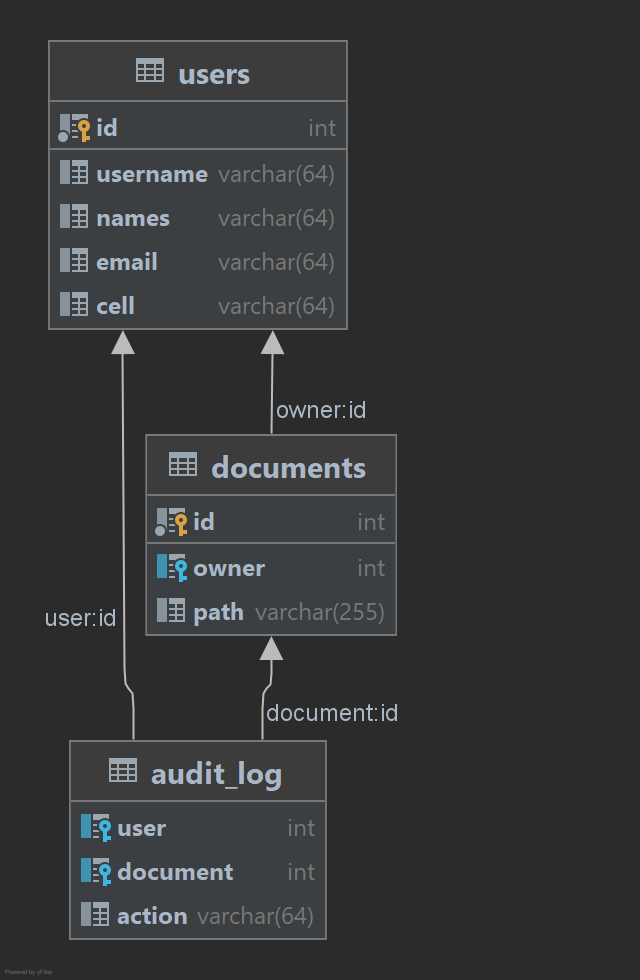
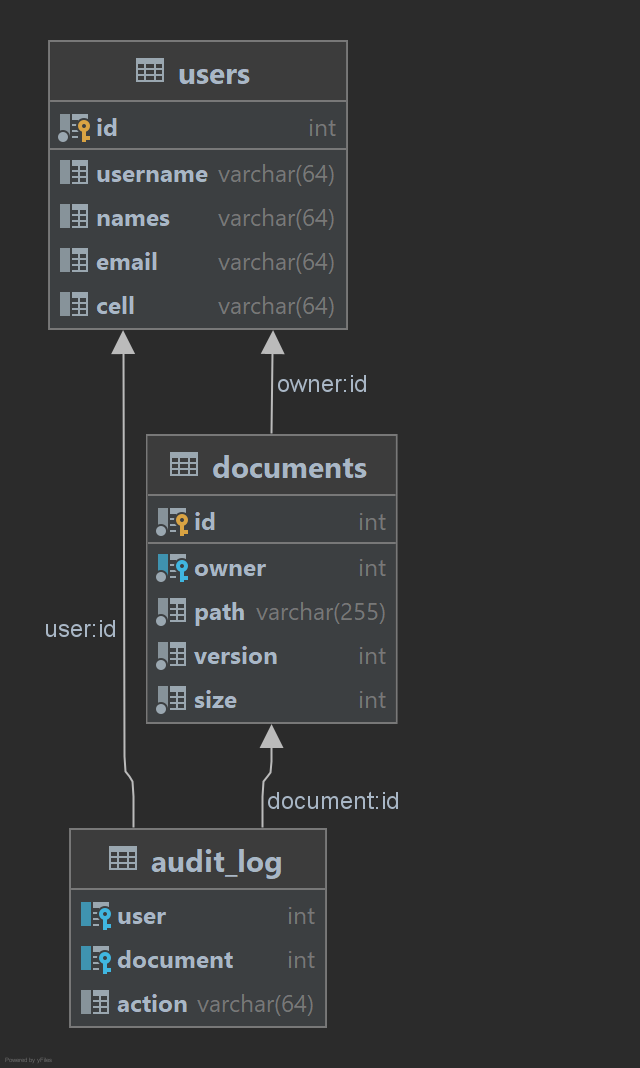
Update documents

Changed region(s): [[0.0625, 0.0306, 0.625, 0.9796], [0.0625, 0.5816, 0.1875, 0.6429]]

diff --git a/pkg/documents/documents.go b/pkg/documents/documents.go
@@ -3,48 +3,142 @@ package documents
 import (
 	"context"
 	"database/sql"
+	"errors"
 	"fmt"
 	"io"
 	"os"
+	"path"
 	"strconv"
 )
 
 func Upload(ctx context.Context, dbc *sql.DB, userID int64, reader io.Reader) (int, error) {
+	// TODO: Ensure only new files created simultaneously in tempdir
 	documentID, err := new(ctx, dbc, userID)
 	if err != nil {
 		return 0, err
 	}
 
-	path := "files/"+strconv.FormatInt(documentID, 10)
-	file, err := os.Create(path)
+	tempPath, writtenBytes, err := createTempFile(documentID, reader)
 	if err != nil {
 		return 0, err
 	}
 
-	writtenBytes, err := io.Copy(file, reader)
+	err = replace(ctx, dbc, tempPath, writtenBytes, documentID)
 	if err != nil {
 		return 0, err
 	}
-
-	err = setAvailable(ctx, dbc, documentID, writtenBytes, path)
-	if err != nil {
-		return 0, err
-	}
-
 
 	return int(documentID), nil
 }
 
-func new(ctx context.Context, dbc *sql.DB, userID int64) (int64, error){
+func new(ctx context.Context, dbc *sql.DB, userID int64) (int64, error) {
 	res, err := dbc.ExecContext(ctx, "insert into `documents` (`owner`) values (?)", userID)
 	if err != nil {
 		return 0, err
 	}
+
 	return res.LastInsertId()
 }
 
-func setAvailable(ctx context.Context, dbc *sql.DB, documentID int64, writtenBytes int64, path string) (error){
-	res, err := dbc.ExecContext(ctx, "update `documents` set `path`=?, `size`=? where `id`=?",path,writtenBytes, documentID)
+func Update(ctx context.Context, dbc *sql.DB, documentID int64, userID int64, reader io.Reader) error {
+	// TODO: Ensure only new files created simultaneously
+	doc, err := get(ctx, dbc, documentID)
+	if err != nil {
+		return err
+	}
+
+	if doc.version == 0 {
+		_, err = Upload(ctx, dbc, userID, reader)
+		return err
+	}
+
+	tempPath, writtenBytes, err := createTempFile(documentID, reader)
+	if err != nil {
+		return err
+	}
+
+	return replace(ctx, dbc, tempPath, writtenBytes, documentID)
+}
+
+var tempDir = mustMakeNewTemp()
+
+func mustMakeNewTemp() string {
+	dir, err := os.MkdirTemp("", "")
+	if err != nil {
+		panic(err)
+	}
+	return dir
+}
+
+func createTempFile(documentID int64, reader io.Reader) (string, int64, error) {
+	tempPath := path.Join(tempDir, strconv.FormatInt(documentID, 10))
+	file, err := os.Create(tempPath)
+	if err != nil {
+		return "", 0, err
+	}
+
+	writtenBytes, err := io.Copy(file, reader)
+	if err != nil {
+		return "", 0, err
+	}
+	return tempPath, writtenBytes, file.Close()
+}
+
+type document struct {
+	id      int64
+	owner   int64
+	path    string
+	version int64
+	size    int64
+}
+
+type ContextQuery interface {
+	QueryContext(ctx context.Context, query string, args ...interface{}) (*sql.Rows, error)
+}
+
+func get(ctx context.Context, dbc ContextQuery, documentID int64) (document, error) {
+	rows, err := dbc.QueryContext(ctx, "select id, owner, path, version, size  from documents where `id` = ?", documentID)
+	if err != nil {
+		return document{}, err
+	}
+
+	if !rows.Next() {
+		return document{}, errors.New("document not found")
+	}
+
+	var doc document
+	err = rows.Scan(&doc.id, &doc.owner, &doc.path, &doc.version, &doc.size)
+	if err != nil {
+		return document{}, err
+	}
+
+	if rows.Next() {
+		return document{}, errors.New("multiple rows found")
+	}
+
+	return doc, err
+}
+
+// Replace the existing file with the updated file in a thread safe manner.
+func replace(ctx context.Context, dbc *sql.DB, oldPath string, size int64, documentID int64) error {
+	tx, err := dbc.Begin()
+	if err != nil {
+		return err
+	}
+
+	doc, err := get(ctx, tx, documentID)
+	if err != nil {
+		return err
+	}
+
+	newPath := "files/" + strconv.FormatInt(documentID, 10) + "_v" + strconv.FormatInt(doc.version+1, 10)
+	err = os.Rename(oldPath, newPath)
+	if err != nil {
+		return err
+	}
+
+	res, err := dbc.ExecContext(ctx, "update `documents` set `path`=?, `version`=?, `size`=? where `id`=?",
+		newPath, doc.version+1, size, documentID)
 	if err != nil {
 		return err
 	}

diff --git a/api/routes.go b/api/routes.go
@@ -8,11 +8,38 @@ import (
 	"io"
 	"log"
 	"net/http"
+	"regexp"
+	"strconv"
 )
+
+type middleware func(http.HandlerFunc)http.HandlerFunc
+
+var _ middleware = POST
+func POST(next http.HandlerFunc)http.HandlerFunc{
+	return func (resp http.ResponseWriter, req *http.Request){
+		if req.Method != "POST"{
+			resp.WriteHeader(http.StatusBadRequest)
+			return
+		}
+		next(resp, req)
+	}
+}
+
+var _ middleware = PATCH
+func PATCH(next http.HandlerFunc)http.HandlerFunc{
+	return func (resp http.ResponseWriter, req *http.Request){
+		if req.Method != "PATCH"{
+			resp.WriteHeader(http.StatusBadRequest)
+			return
+		}
+		next(resp, req)
+	}
+}
 
 func New(dbc *sql.DB) (http.Server){
 	mux := http.NewServeMux()
-	mux.HandleFunc("/upload", uploadDocument(dbc))
+	mux.HandleFunc("/upload", POST(uploadDocument(dbc)))
+	mux.HandleFunc("/update", PATCH(updateDocument(dbc)))
 	httpServer := http.Server{
 		Handler: mux,
 		Addr: "localhost:8084",
@@ -41,7 +68,7 @@ func uploadDocument(dbc *sql.DB) http.HandlerFunc {
 			}
 			documentID, err := documents.Upload(req.Context(), dbc, userID, mp)
 			if err != nil {
-				resp.WriteHeader(http.StatusBadRequest)
+				resp.WriteHeader(http.StatusInternalServerError)
 				resp.Write([]byte(err.Error()))
 				log.Default().Println(err)
 				return
@@ -56,7 +83,56 @@ func uploadDocument(dbc *sql.DB) http.HandlerFunc {
 			DocumentIDs: documentIDs,
 		})
 		if err != nil {
+			resp.WriteHeader(http.StatusInternalServerError)
+			resp.Write([]byte(err.Error()))
+			log.Default().Println(err)
+			return
+		}
+		resp.WriteHeader(http.StatusOK)
+	}
+}
+
+var updateDocumentURLRegex = regexp.MustCompile(`\/update/(:id)`)
+
+func updateDocument(dbc *sql.DB) http.HandlerFunc{
+	return func(resp http.ResponseWriter, req *http.Request) {
+
+		mp, err := req.MultipartReader()
+		if err != nil {
 			resp.WriteHeader(http.StatusBadRequest)
+			resp.Write([]byte(err.Error()))
+			log.Default().Println(err)
+			return
+		}
+
+		err = req.ParseForm()
+		if err != nil {
+			resp.WriteHeader(http.StatusBadRequest)
+			resp.Write([]byte(err.Error()))
+			log.Default().Println(err)
+			return
+		}
+
+		documentID, err := strconv.ParseInt(req.URL.Query().Get("document_id"), 10,64)
+		if err != nil {
+			resp.WriteHeader(http.StatusBadRequest)
+			resp.Write([]byte(err.Error()))
+			log.Default().Println(err)
+			return
+		}
+
+		part, err := mp.NextPart()
+		if err != nil {
+			resp.WriteHeader(http.StatusBadRequest)
+			resp.Write([]byte(err.Error()))
+			log.Default().Println(err)
+			return
+		}
+
+		var userID int64
+		err = documents.Update(req.Context(), dbc, documentID, userID, part)
+		if err != nil {
+			resp.WriteHeader(http.StatusInternalServerError)
 			resp.Write([]byte(err.Error()))
 			log.Default().Println(err)
 			return
